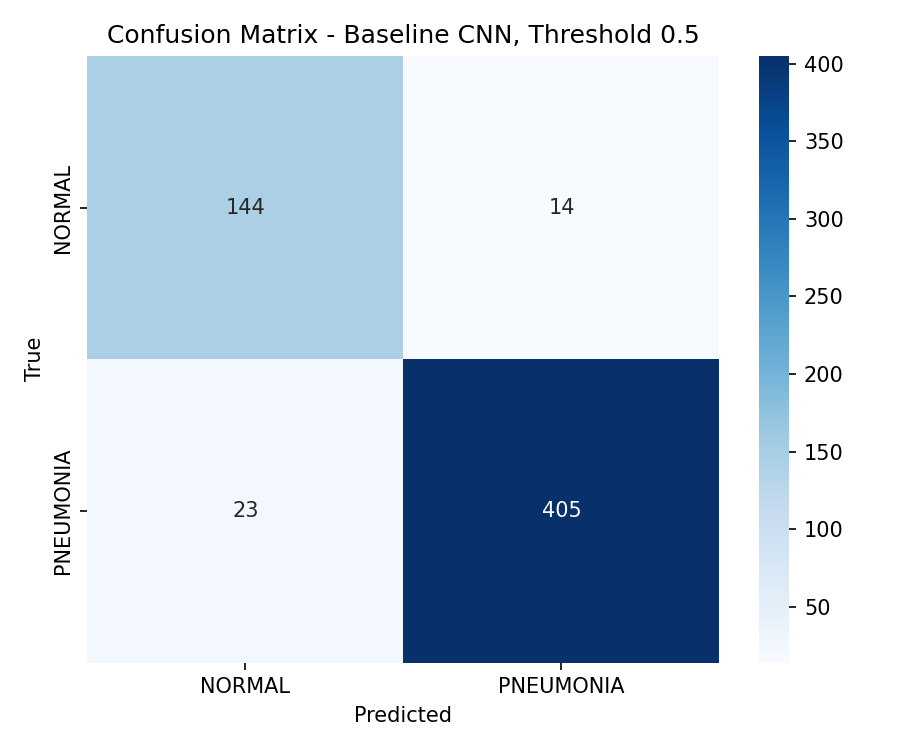
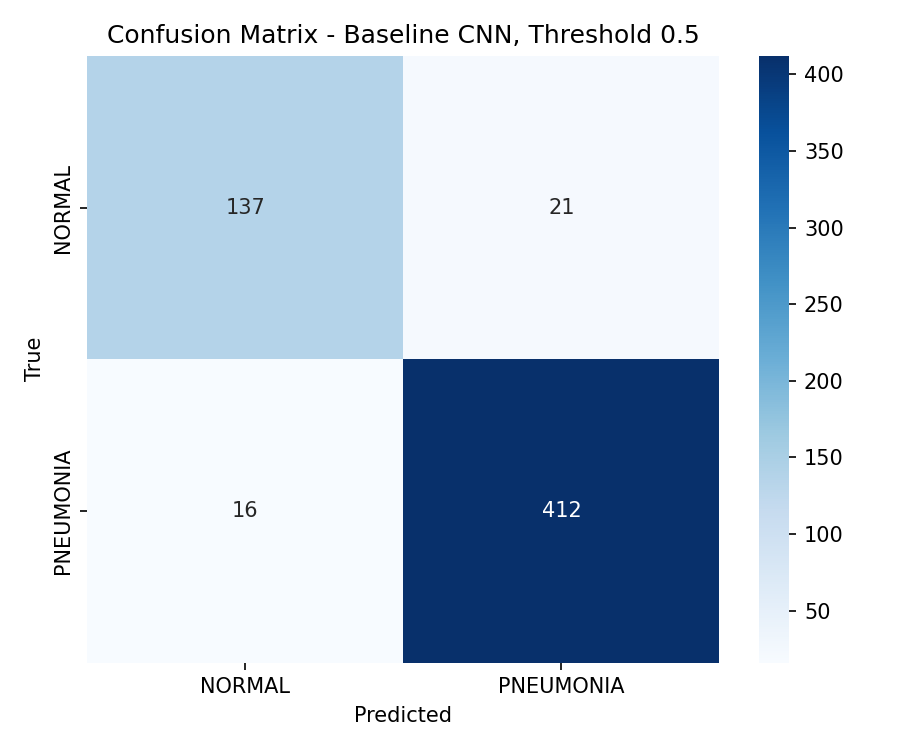
Update baseline metrics and classification reports; add threshold comparison analysis

diff --git a/checkpoint2_report.md b/checkpoint2_report.md
@@ -134,6 +134,24 @@ selects a threshold on the validation split using sensitivity, specificity, and
 false-negative trade-offs, then applies that selected threshold once to the test
 split.
 
+Latest baseline metrics:
+
+| Metric | Default threshold 0.5 |
+| --- | ---: |
+| Loss | 0.1603 |
+| Accuracy | 0.9369 |
+| Precision | 0.9515 |
+| Recall / sensitivity | 0.9626 |
+| ROC-AUC | 0.9783 |
+| PR-AUC | 0.9913 |
+
+The validation-based threshold selection chose threshold `0.65`, using the rule:
+highest validation specificity while keeping validation recall at least `0.95`.
+On the test split, this selected threshold keeps the same overall accuracy
+(`0.9369`) while increasing specificity and precision, but it also increases
+false negatives compared with threshold `0.5`. This illustrates why threshold
+selection is a clinical trade-off rather than a purely technical default.
+
 Baseline training curves:
 
 ![Training curves](outputs/figures/training_curves.png)
@@ -149,6 +167,31 @@ The latest exact metrics are generated by the notebook and saved in:
 - `outputs/results/classification_report_default_threshold.txt`
 - `outputs/results/classification_report_selected_threshold.txt`
 - `outputs/results/validation_threshold_analysis.csv`
+
+Default-threshold test classification report:
+
+| Class | Precision | Recall | F1-score | Support |
+| --- | ---: | ---: | ---: | ---: |
+| NORMAL | 0.8954 | 0.8671 | 0.8810 | 158 |
+| PNEUMONIA | 0.9515 | 0.9626 | 0.9570 | 428 |
+| Macro avg | 0.9235 | 0.9149 | 0.9190 | 586 |
+| Weighted avg | 0.9364 | 0.9369 | 0.9365 | 586 |
+
+Validation-selected-threshold test classification report:
+
+| Class | Precision | Recall | F1-score | Support |
+| --- | ---: | ---: | ---: | ---: |
+| NORMAL | 0.8623 | 0.9114 | 0.8862 | 158 |
+| PNEUMONIA | 0.9666 | 0.9463 | 0.9563 | 428 |
+| Macro avg | 0.9144 | 0.9288 | 0.9212 | 586 |
+| Weighted avg | 0.9385 | 0.9369 | 0.9374 | 586 |
+
+Threshold comparison on the test split:
+
+| Threshold | Pneumonia false negatives | Normal false positives |
+| --- | ---: | ---: |
+| 0.50 | 16 | 21 |
+| 0.65 | 23 | 14 |
 
 Confusion matrix figure:
 
